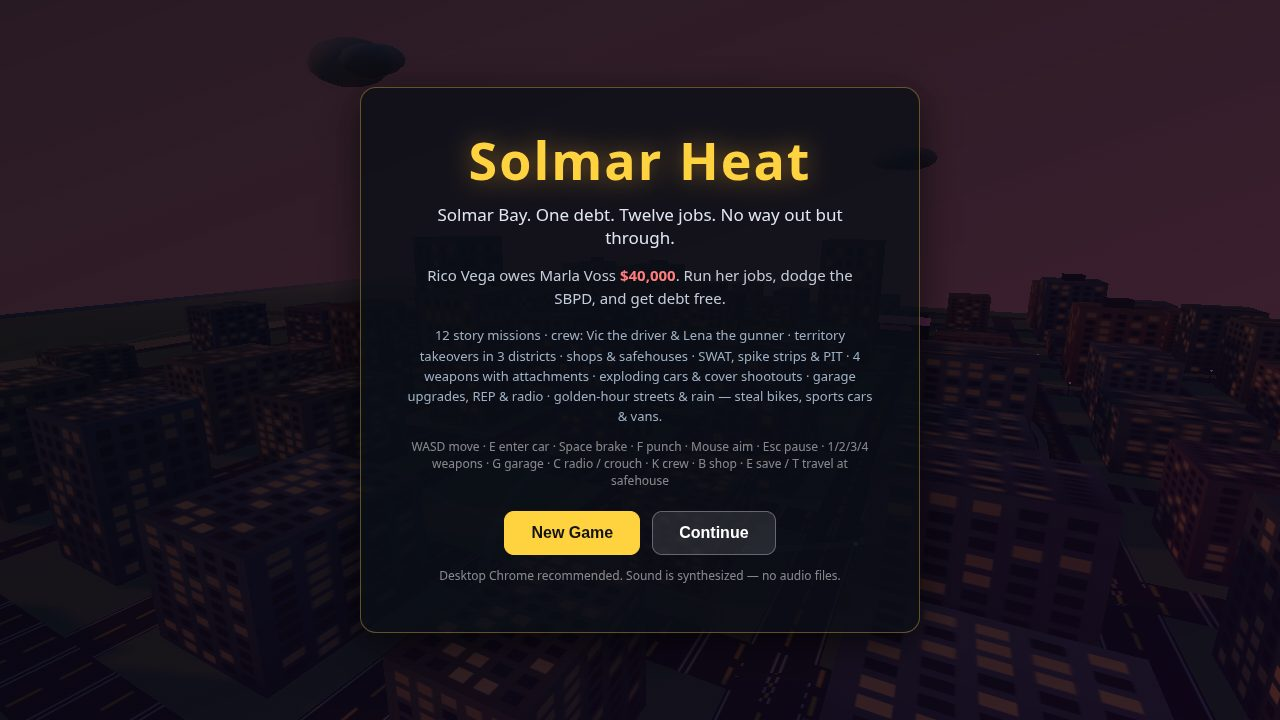
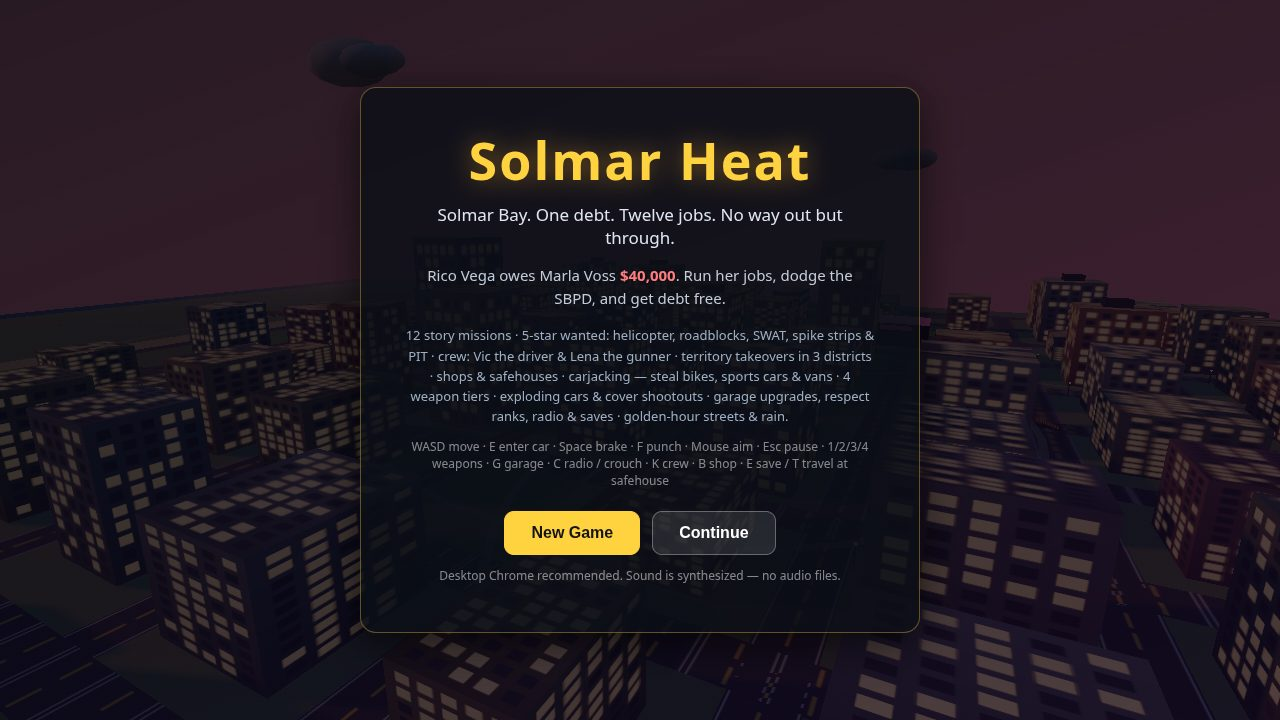
v4: radio + new screenshots + final verify

diff --git a/game/src/shots.js b/game/src/shots.js
@@ -14,7 +14,7 @@
 import { DISTRICTS } from './config.js';
 import { state, setWanted } from './state.js';
 
-export const SHOT_NAMES = ['start', 'drive', 'chase', 'mission', 'heli', 'combat', 'race', 'garage', 'crew', 'territory', 'shop'];
+export const SHOT_NAMES = ['start', 'drive', 'chase', 'mission', 'heli', 'combat', 'race', 'garage', 'crew', 'territory', 'shop', 'action', 'boat', 'jump'];
 
 function putPlayerInCar(ctx, x, z, heading, speed) {
   const { player, vehicles } = ctx;
@@ -263,6 +263,108 @@ export function applyShotSetup(name, ctx) {
       camera.lookAt(86, 1.5, 22);
     }
     if (ctx.openShop) ctx.openShop();
+    return setup;
+  }
+
+  if (name === 'action') {
+    // v4 COVER: drift + helicopter + boats in one frame. Rico's car slides
+    // north on the western beach road (x=-320) at 4 stars, so the SBPD heli
+    // is overhead, the interceptors close in behind, and the moored boats
+    // sit in the bay to the west. The camera owns the frame (like the heli
+    // shot): low, southeast of the car, looking northwest and up at the
+    // midpoint between car and heli, biased west so the boats read in the
+    // background. The shoot harness holds Space + steer so the car is
+    // genuinely drifting (real slide, real skid marks) and stages the drift
+    // smoke at the rear wheels, because a cameraFn shot skips
+    // DrivingFun.update (see main.js) and the loop would never emit it.
+    putPlayerInCar(ctx, -320, 60, Math.PI, 20);
+    setWanted(4);
+    setup.autoDrive = true;
+    setup.camYaw = 0;
+    setup.camPitch = 0.3;
+    if (missions) missions.startMission('m8');
+    if (missions) missions.beacon.visible = false;
+    warmUpChase(ctx, 6);
+    setWanted(4);
+    // The warm-up rams spin the car around (cops close in on the bumper),
+    // so re-pose it: back on the beach road, nose north, rolling.
+    if (player.vehicle) {
+      player.vehicle.position.set(-320, 0, 60);
+      player.vehicle.heading = Math.PI;
+      player.vehicle.mesh.rotation.y = Math.PI;
+      player.vehicle.speed = 20;
+    }
+    player.position.set(-320, 0, 60);
+    player.heading = Math.PI;
+    if (camera) {
+      camera.fov = 85;
+      camera.updateProjectionMatrix();
+    }
+    // Southeast camera (fifth try, back to the probe-1 geometry that read
+    // best): ~55 m out, looking northwest and up, so the heli + searchlight
+    // stay a narrow beam instead of a wall, the car stays framed on the
+    // beach road, and the moored boats sit in the bay at the left edge.
+    // The car is small at this range, so the harness stages a DENSE smoke
+    // cloud (triple bursts) — a 3–4 m white puff behind the car is what
+    // makes the drift read at 55 m.
+    setup.cameraFn = (cam) => {
+      const p = player.vehicle ? player.vehicle.position : player.position;
+      const h = police.heli ? police.heli.position : { x: p.x + 12, y: 58, z: p.z + 8 };
+      cam.position.set(p.x + 38, 7, p.z + 42);
+      cam.lookAt((p.x + h.x) / 2 - 18, 22, (p.z + h.z) / 2 - 6);
+    };
+    return setup;
+  }
+
+  if (name === 'jump') {
+    // v4 stunt-ramp jump: same rolling start as drive, but the camera is
+    // OWNED at ground level behind the car instead of following it — the
+    // follow camera rises with the car, which hides the height completely.
+    // From 20 m back at y=2.2, a car 3–5 m up reads as flying, with the
+    // ramp, the street and the Downtown towers behind it. (A cameraFn shot
+    // skips DrivingFun.update, so there is no nitro FOV stretch or AIR TIME
+    // popup in this frame — the jump itself is the story.)
+    putPlayerInCar(ctx, 64, 150, Math.PI, 20);
+    setup.autoDrive = true;
+    setup.camYaw = 0;
+    setup.camPitch = 0.3;
+    if (missions) missions.startMission('m1');
+    setup.cameraFn = (cam) => {
+      const p = player.vehicle ? player.vehicle.position : player.position;
+      cam.position.set(p.x + 3, 2.2, p.z + 20);
+      cam.lookAt(p.x - 1, 3.5, p.z - 25);
+    };
+    return setup;
+  }
+
+  if (name === 'boat') {
+    // v4 dock run: Rico boards the first moored boat with the crate run
+    // already started, so the cyan beacon sits over the delivery buoy out
+    // in the bay and the HUD shows the run timer. The boat is aimed at the
+    // buoy and auto-throttles (W), so the shot catches it under way with
+    // the city and the pier behind it.
+    if (ctx.dockRun) ctx.dockRun.start();
+    const boat = ctx.boats ? ctx.boats.boats[0] : null;
+    if (boat) {
+      // Aim at the delivery buoy, then board: the run's 'board' phase
+      // completes the moment Rico is driving a boat.
+      const dx = -520 - boat.position.x;
+      const dz = 120 - boat.position.z;
+      boat.heading = Math.atan2(dx, dz);
+      boat.mesh.rotation.y = boat.heading;
+      if (player.vehicle) player.vehicle.exit(player);
+      player.position.set(boat.position.x, 0, boat.position.z);
+      boat.board(player);
+      player.position.copy(boat.position);
+    }
+    setup.autoDrive = true;
+    // Camera AHEAD of the boat (west of it, looking east): the bow faces
+    // the lens with the Harbor pier and the golden-hour city behind it, and
+    // the low western sun lights the hull instead of shadowing it. The
+    // delivery buoy sits behind the camera — the run still reads in the
+    // HUD (timer + Danny's line). Slightly raised pitch so the deck reads.
+    setup.camYaw = -Math.PI / 2;
+    setup.camPitch = 0.38;
     return setup;
   }
 

diff --git a/game/src/audio.js b/game/src/audio.js
@@ -242,8 +242,8 @@ class AudioEngine {
       }
     } catch { /* audio unavailable */ }
   }
-  // --- Radio (v2): 3 synthesized stations, 16-step loops, no audio files.
-  // cycleRadio() steps OFF -> 1 -> 2 -> 3 -> OFF. Station state is kept
+  // --- Radio (v2, v4): 5 synthesized stations, 16-step loops, no audio files.
+  // cycleRadio() steps OFF -> 1 -> 2 -> 3 -> 4 -> 5 -> OFF. Station state is kept
   // even before the context exists; the scheduler only runs when ready.
   // midiToFreq converts the pattern notes (MIDI numbers, 0 = rest).
   _radioNoteFreq(midi) {
@@ -297,7 +297,7 @@ class AudioEngine {
     }
   }
 
-  // Cycle OFF -> station 1 -> 2 -> 3 -> OFF. Returns the station name or null.
+  // Cycle OFF -> station 1 -> 2 -> 3 -> 4 -> 5 -> OFF. Returns the station name or null.
   cycleRadio() {
     this.radioStation = this.radioStation >= RADIO_STATIONS.length - 1 ? -1 : this.radioStation + 1;
     if (this.radioStation < 0) {
@@ -334,6 +334,20 @@ const RADIO_STATIONS = [
     name: 'HEAT 107', bpm: 128, bassWave: 'square', leadWave: 'sawtooth',
     bass: [40, 40, 0, 40, 0, 40, 0, 0, 43, 43, 0, 43, 0, 45, 0, 0],
     lead: [76, 0, 76, 79, 0, 76, 0, 74, 76, 0, 79, 0, 81, 0, 79, 76],
+  },
+  {
+    // v4 station 4: PALM 91.1 — laid-back island groove, offbeat bass
+    // stabs (steps 2/6/10/14) and a sparse steel-drum-style lead.
+    name: 'PALM 91.1', bpm: 76, bassWave: 'triangle', leadWave: 'sine',
+    bass: [0, 0, 38, 0, 0, 0, 38, 0, 0, 0, 43, 0, 0, 0, 41, 0],
+    lead: [74, 0, 0, 0, 77, 0, 0, 74, 0, 0, 79, 0, 76, 0, 0, 0],
+  },
+  {
+    // v4 station 5: NEON 104.9 — synthwave night drive, driving eighth-note
+    // bass in A minor and a bright arpeggiated lead.
+    name: 'NEON 104.9', bpm: 112, bassWave: 'sawtooth', leadWave: 'square',
+    bass: [45, 0, 45, 0, 45, 0, 45, 0, 41, 0, 41, 0, 43, 0, 43, 0],
+    lead: [69, 72, 76, 81, 76, 72, 69, 0, 67, 71, 74, 79, 74, 71, 67, 0],
   },
 ];
 
